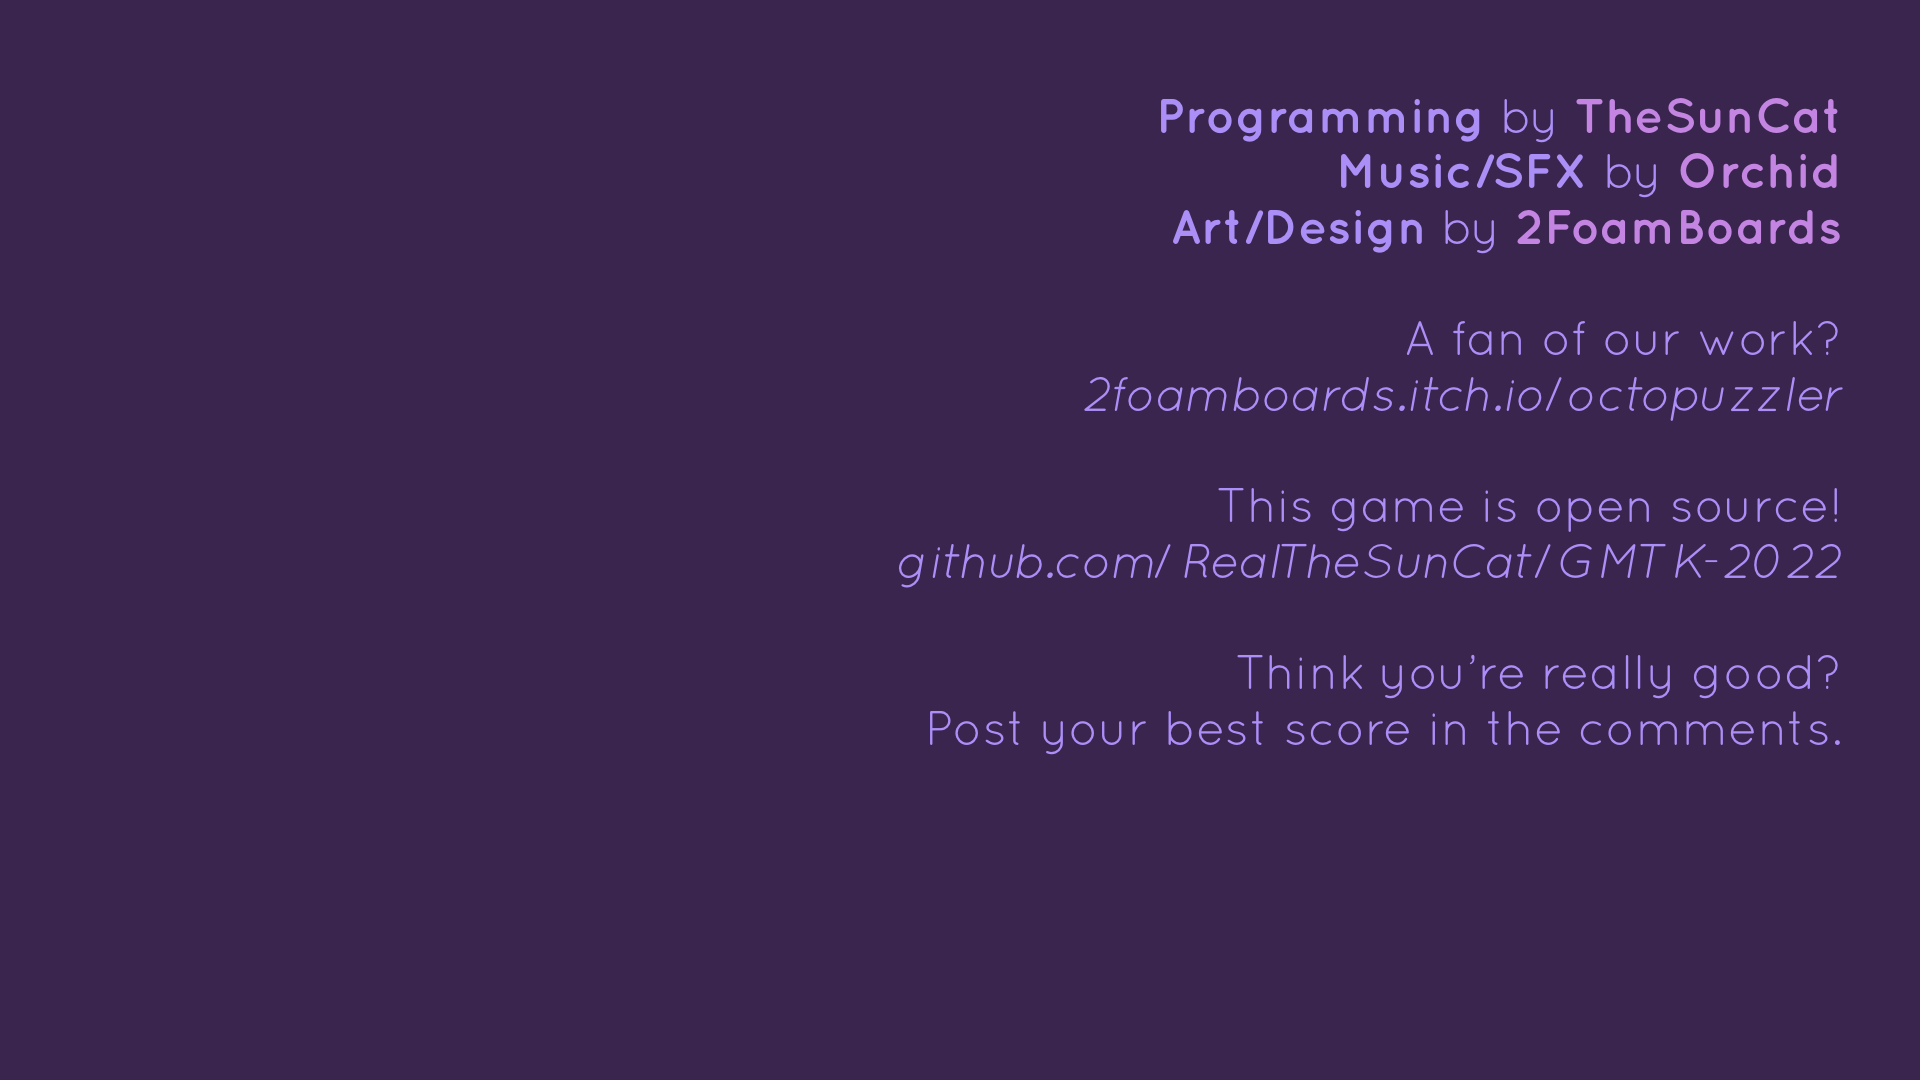
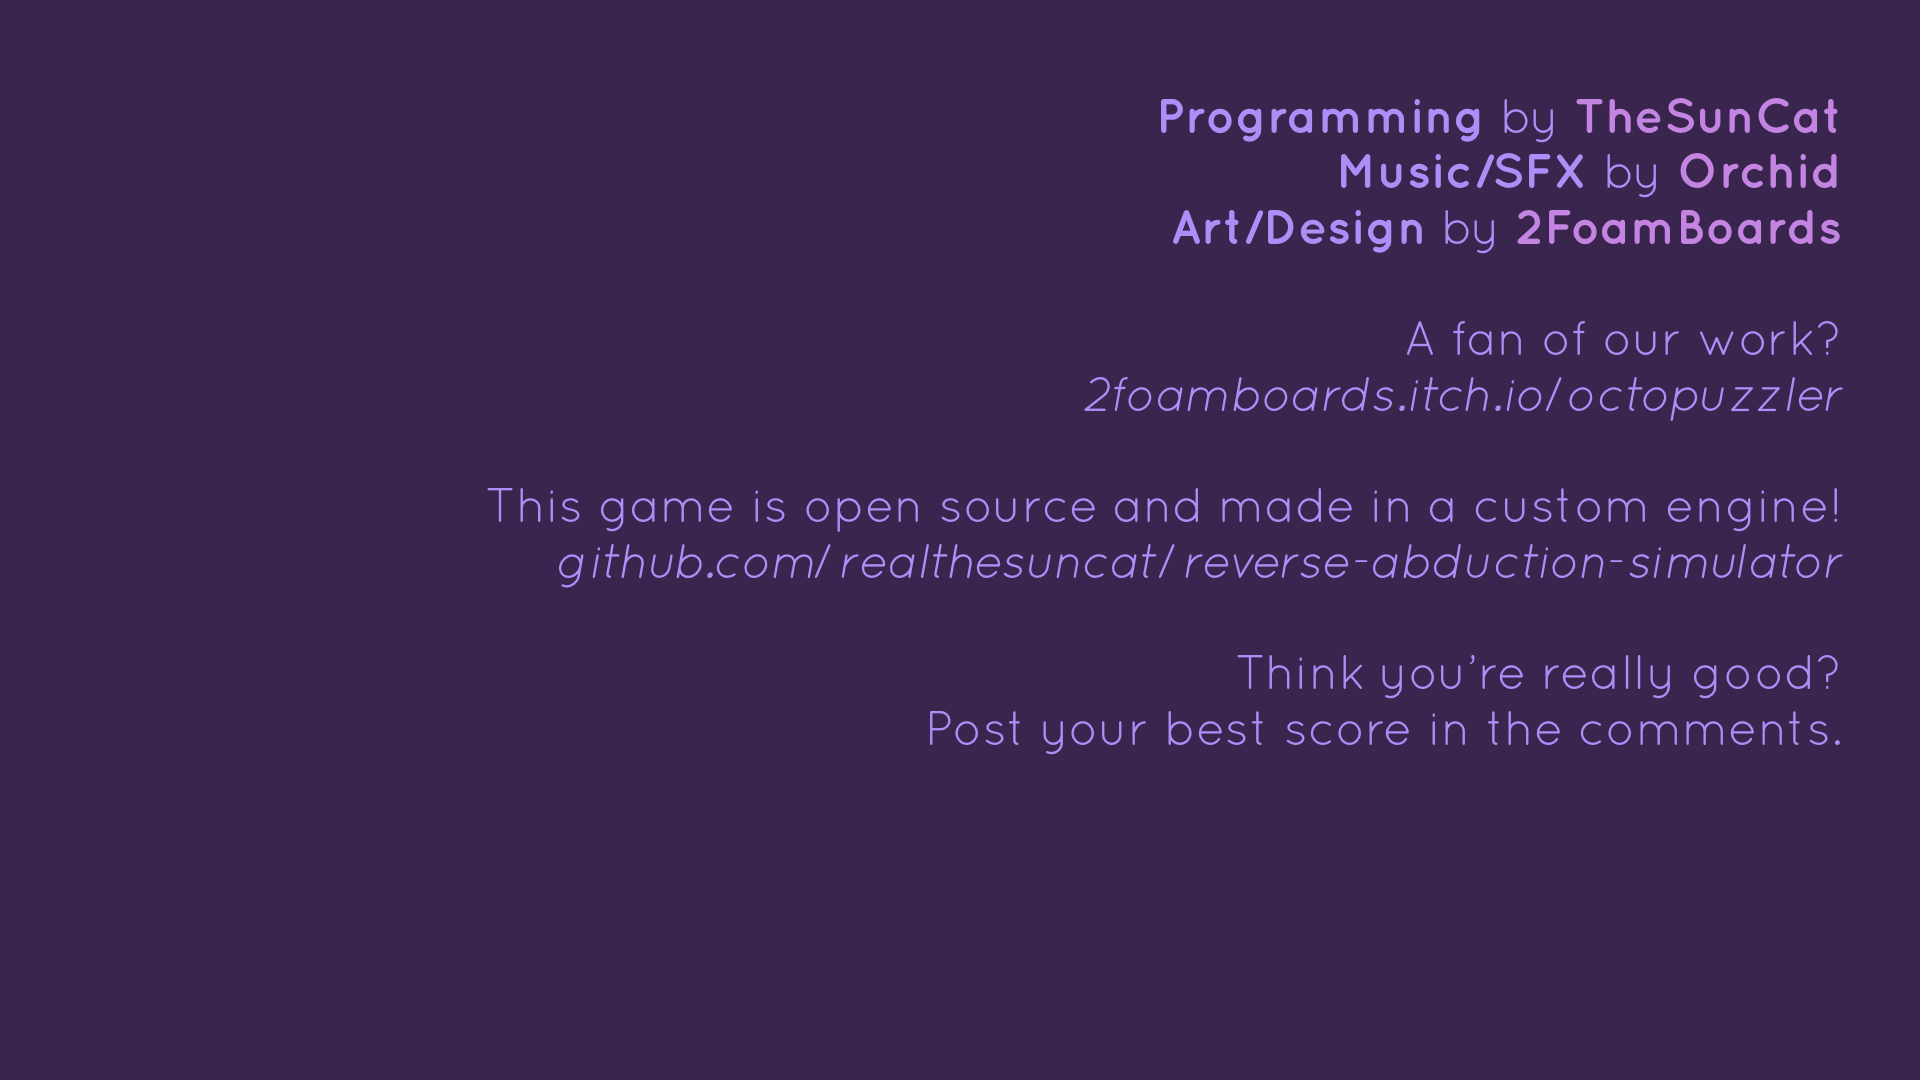
Add buttons to open links in end screen

Changed region(s): [[0.25, 0.4583, 0.9688, 0.55]]

diff --git a/src/Core/UI/GUIPostGame.cpp b/src/Core/UI/GUIPostGame.cpp
@@ -63,6 +63,11 @@ void GUIPostGame::tick()
     m_boss.tick();
     m_ufoText.tick();
     m_bossText.tick();
+
+    for(UIButton* button : buttons)
+    {
+        button->tick();
+    }
 }
 
 void GUIPostGame::draw() const
@@ -77,6 +82,10 @@ void GUIPostGame::draw() const
     m_backgroundFade.draw();
     m_planetDown.draw();
 
+    for(UIButton* button : buttons)
+    {
+        button->draw();
+    }
 }
 
 void GUIPostGame::start(bool goodEnding)
@@ -196,6 +205,14 @@ void GUIPostGame::start(bool goodEnding)
 
         m_backgroundFade.moveLinearly = true;
         m_backgroundFade.setGoal(0, 2000);
+
+        buttons.push_back(new UIButton("octopuzzlerURL", TextureManager::None, UITransform(960, 350, 900, 100), Bounds(), [](UIButton&, int){
+            Util::openLink("https://2foamboards.itch.io/octopuzzler");
+        }));
+
+        buttons.push_back(new UIButton("gitURL", TextureManager::None, UITransform(560, 500, 1300, 100), Bounds(), [](UIButton&, int){
+            Util::openLink("https://github.com/RealTheSunCat/Reverse-Abduction-Simulator");
+        }));
     }, 19150);
 
 }

diff --git a/src/Outrospection.cpp b/src/Outrospection.cpp
@@ -246,18 +246,9 @@ void Outrospection::runGameLoop()
     // Draw the frame!
     {
         glDisable(GL_DEPTH_TEST); // disable depth test so stuff near camera isn't clipped
-        
-        framebuffers["crt"].bind();
-        glClear(GL_COLOR_BUFFER_BIT | GL_DEPTH_BUFFER_BIT);
-        
-        //if(!won)
-        //    scene->draw();
 
         framebuffers["default"].bind();
         glClear(GL_COLOR_BUFFER_BIT);
-
-        // draw CRT with shader effect
-        shaders["crt"].use();
         
         glBindVertexArray(crtVAO);
         framebuffers["crt"].bindTexture();
@@ -388,7 +379,6 @@ void Outrospection::createShaders()
     LOG_INFO("Setting up shaders...");
 
     shaders.insert(std::make_pair("screen", Shader("screen", "screen")));
-    shaders.insert(std::make_pair("crt",    Shader("crt"   , "crt"   )));
     shaders.insert(std::make_pair("sprite", Shader("sprite", "sprite")));
     shaders.insert(std::make_pair("glyph",  Shader("sprite", "glyph" )));
 }

diff --git a/src/Util.cpp b/src/Util.cpp
@@ -737,6 +737,22 @@ int Util::stoi(const std::string_view& str)
     return int(Util::stof(str)); // lolrip, fast_float doesn't support int
 }
 
+#ifdef PLATFORM_WINDOWS
+#include <windows.h>
+#include <shellapi.h>
+#endif
+
+void Util::openLink(const std::string& link)
+{
+#ifdef PLATFORM_WINDOWS
+    ShellExecute(0, 0, link, 0, 0 , SW_SHOW );
+#else
+    std::string command = "xdg-open " + link;
+    system(command.c_str());
+#endif
+}
+
+
 Util::Timer::Timer() : Timer::Timer("")     { }
 
 Util::Timer::Timer(const char* _name) : begin(std::chrono::high_resolution_clock::now()),

diff --git a/src/Source.cpp b/src/Source.cpp
@@ -24,7 +24,7 @@ int main(int argc, char** argv) {
 #endif
 
     // check if we can read the filesystem
-    bool canReadFiles = Util::fileExists("res/ShaderData/crt.vert");
+    bool canReadFiles = Util::fileExists("res/ShaderData/sprite.vert");
     if(!canReadFiles)
     {
         std::string err = "Can't access \"res\" folder! Make sure you:\n- run the game from its directory\n- see the \"res\" folder next to the game\n- have unzipped it fully";

diff --git a/src/Core/AudioManager.cpp b/src/Core/AudioManager.cpp
@@ -33,6 +33,10 @@ AudioManager::~AudioManager()
     engine.deinit();
 }
 
+float filter_param0[6] = { 0, 0, 0, 0, 0, 0 };
+float filter_param1[6] = { 1000, 8000, 0, 0, 0 ,0 };
+float filter_param2[6] = { 2, 3,  0, 0, 0, 0 };
+
 void AudioManager::play(const std::string& soundName, float vol, bool loop)
 {
     auto& [key, wave] = *waves.try_emplace(soundName).first;

diff --git a/src/Core/UI/GUITutorial.cpp b/src/Core/UI/GUITutorial.cpp
@@ -14,7 +14,7 @@ GUITutorial::GUITutorial() : GUILayer("Tutorial", false), m_tutorial("Tutorial",
         o.pushOverlay(o.layerPtrs["characterMaker"]);
         o.pushOverlay(o.layerPtrs["stats"]);
 
-        ((GUIStats*)o.layerPtrs["stats"])->setTimer(150000);
+        ((GUIStats*)o.layerPtrs["stats"])->setTimer(1000);
 
         LOG("Pressed!");
     }));

diff --git a/src/Util.h b/src/Util.h
@@ -220,6 +220,8 @@ namespace Util
 
     int stoi(const std::string_view& str);
 
+    void openLink(const std::string& link);
+
     class Timer
     {
     public:
